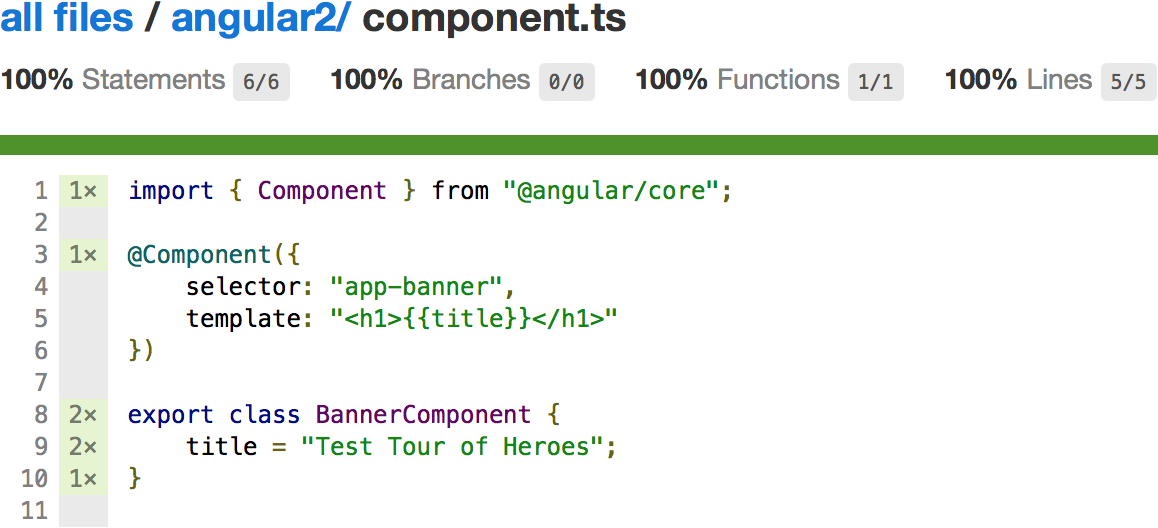
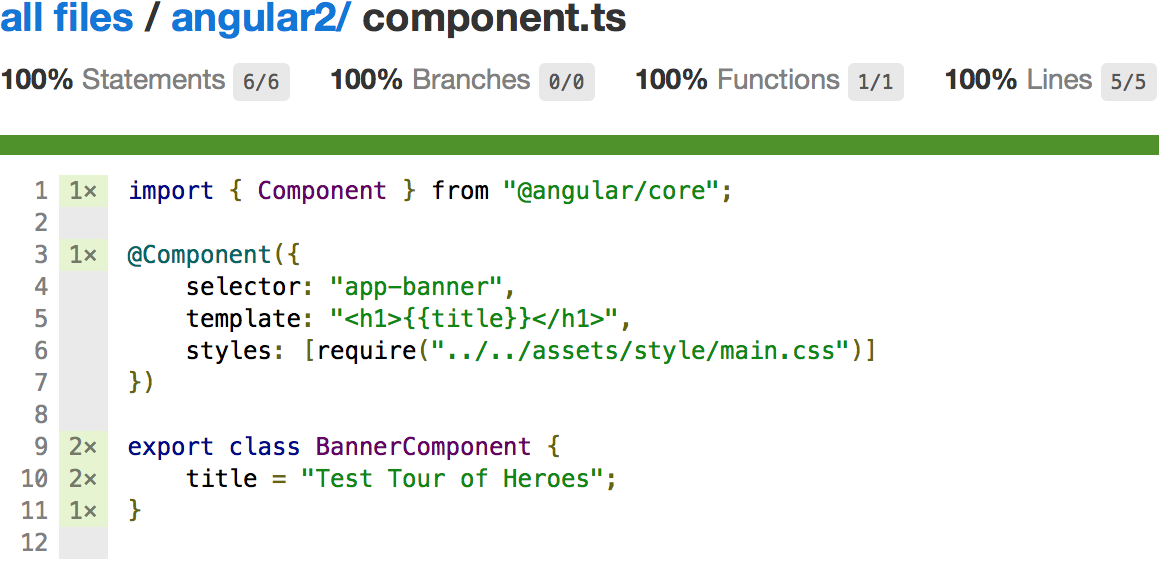
Updated screenshot for Angular2

diff --git a/README.md b/README.md
@@ -74,7 +74,7 @@ browsers: ["Chrome"]
 
 Example of the resulting coverage:
 
-<img src="http://i.imgur.com/jzxHaiW.png" width="579" height="264" />
+<img src="http://i.imgur.com/wqUamM2.png" width="580" height="281" />
 
 #### Configuration example for React
 
